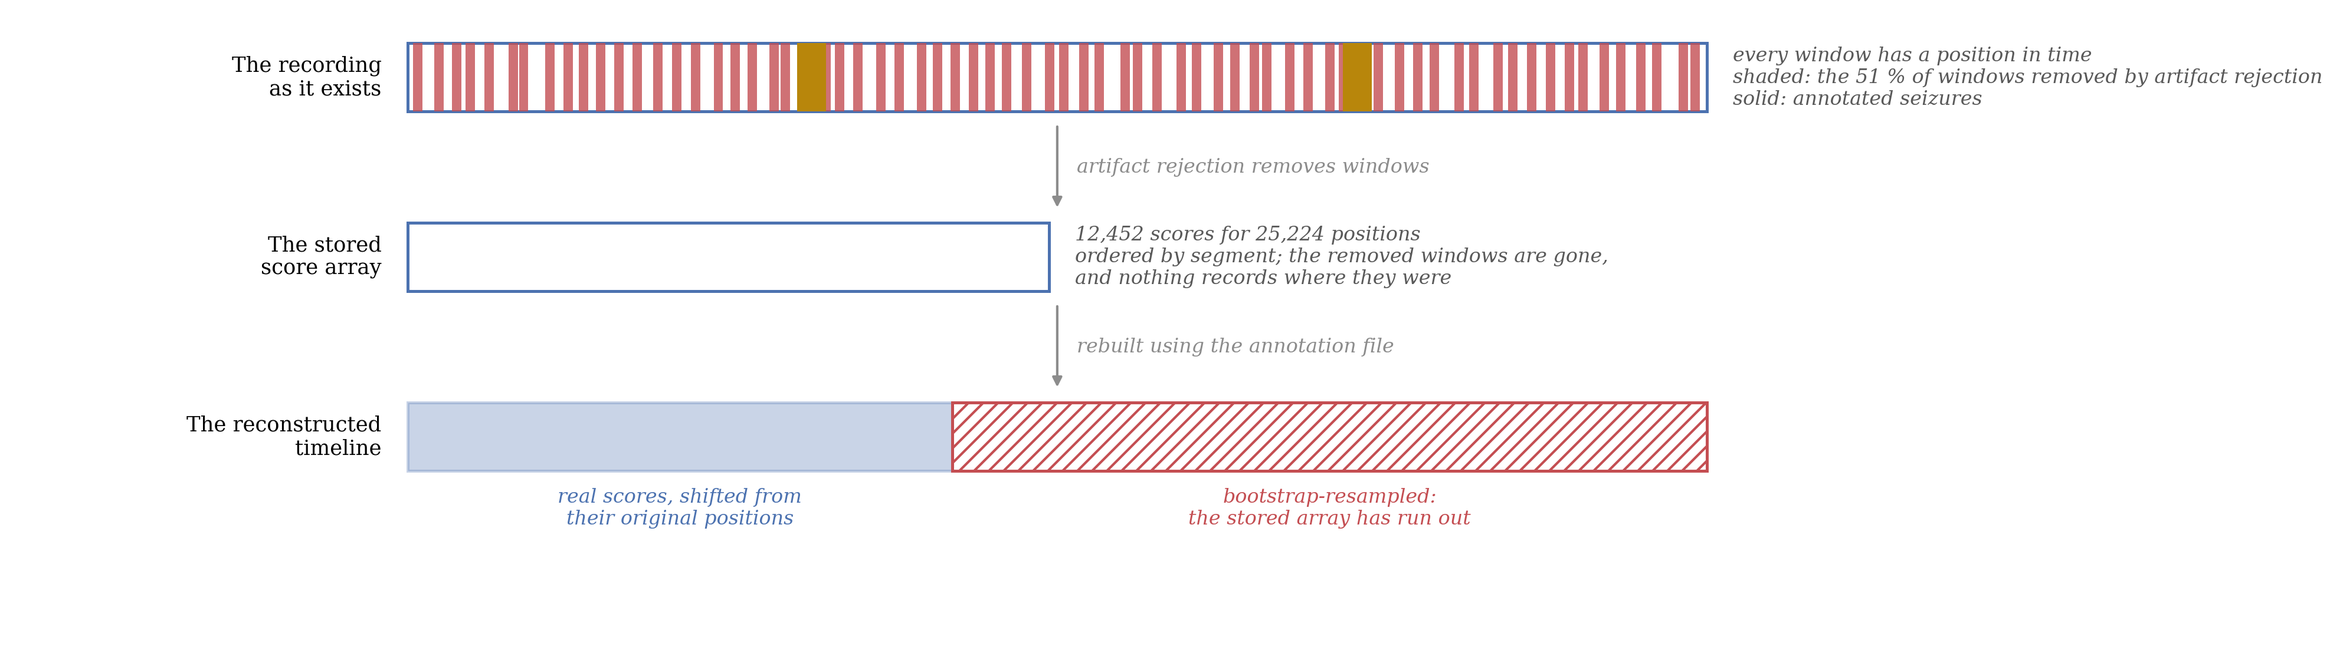
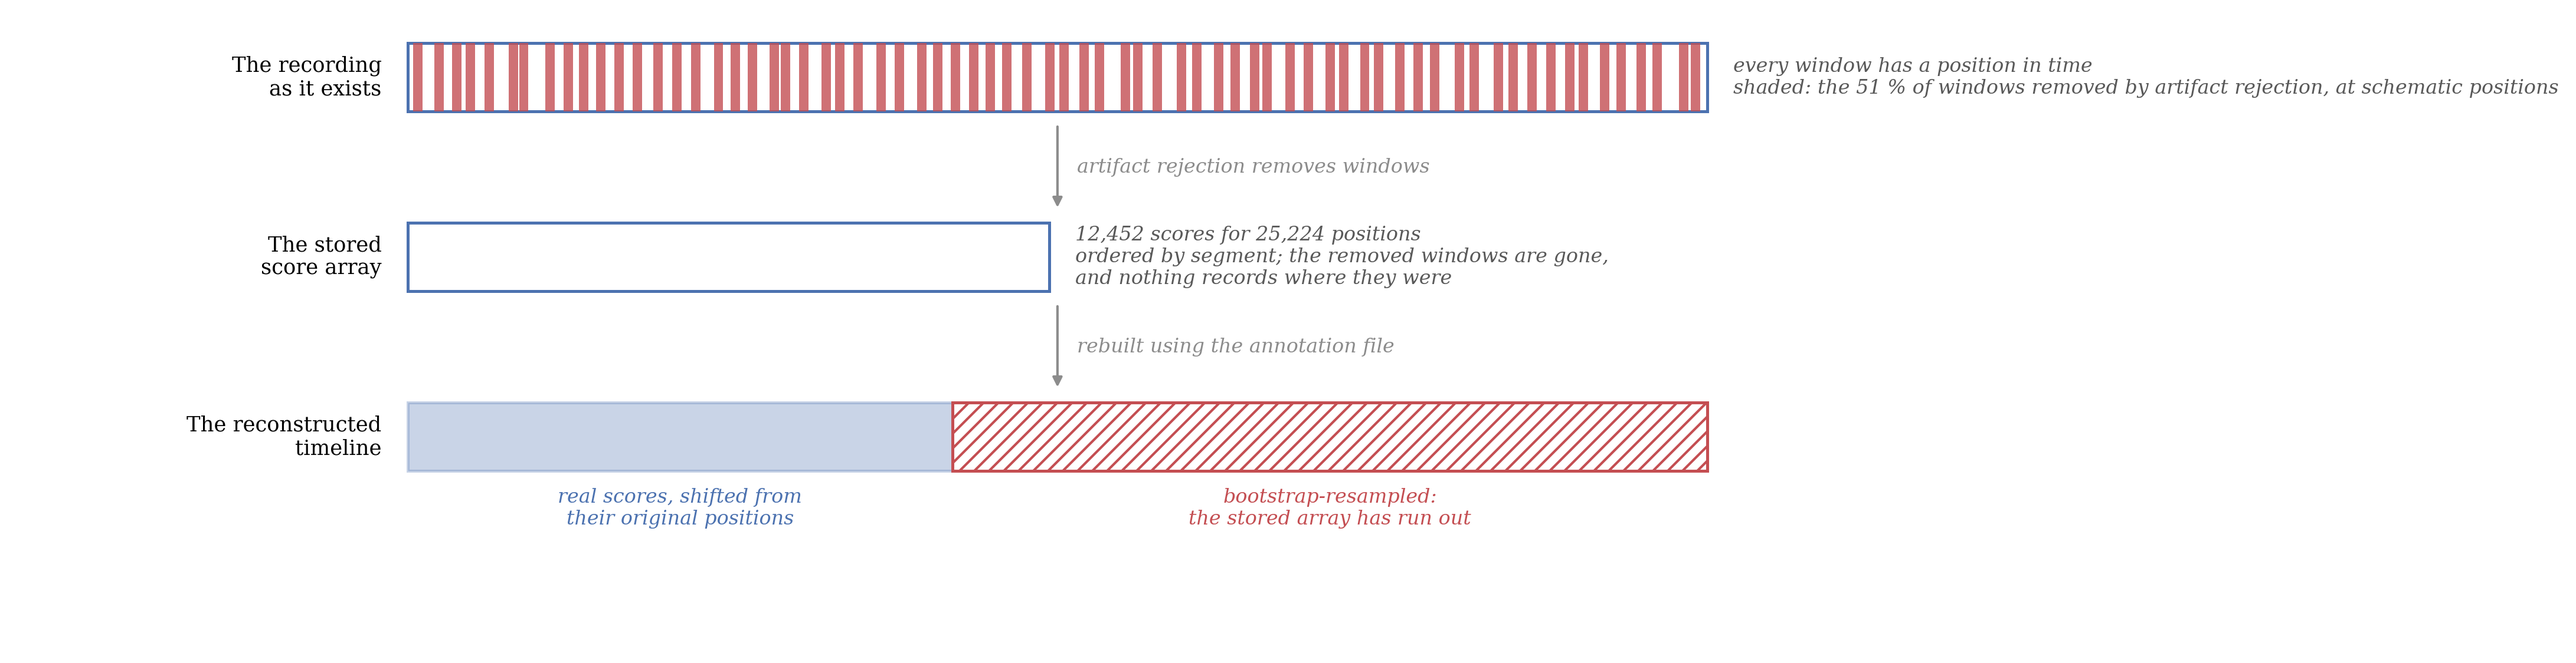
fig 2.12 and 2.13: tighter layout

diff --git a/src/figures/fig2_12_and_2_13_application.py b/src/figures/fig2_12_and_2_13_application.py
@@ -104,10 +104,14 @@ BANDS = [
 ]
 
 X0, X1 = 3.0, 66.0
+X1_WIDE = 95.0
+WIDE = {"Browser", "Application server"}
+XMID = (X0 + X1) / 2
 BOX_H = 13.0
 
 for name, colour, y, items in BANDS:
-    axa.add_patch(Rectangle((X0 - 1.6, y - 2.4), (X1 - X0) + 3.2, BOX_H + 6.0,
+    xr = X1_WIDE if name in WIDE else X1
+    axa.add_patch(Rectangle((X0 - 1.6, y - 2.4), (xr - X0) + 3.2, BOX_H + 6.0,
                             facecolor="none", edgecolor=colour, linewidth=1.0,
                             linestyle=(0, (3, 3)), zorder=1))
     axa.text(X0 - 0.6, y + BOX_H + 1.2, name, fontsize=9.5, fontweight="bold",
@@ -115,7 +119,7 @@ for name, colour, y, items in BANDS:
              bbox=dict(boxstyle="square,pad=0.12", facecolor="white",
                        edgecolor="none"))
     n = len(items)
-    w = ((X1 - X0) - 1.6 * (n - 1)) / n
+    w = ((xr - X0) - 1.6 * (n - 1)) / n
     for i, label in enumerate(items):
         x = X0 + i * (w + 1.6)
         axa.add_patch(Rectangle((x, y), w, BOX_H, facecolor="white",
@@ -124,28 +128,28 @@ for name, colour, y, items in BANDS:
                  fontsize=7.6, color="0.15", zorder=4)
 
 for y_from, y_to in ((80, 58 + BOX_H), (58, 32 + BOX_H), (32, 6 + BOX_H)):
-    axa.add_patch(FancyArrowPatch(((X0 + X1) / 2, y_from),
-                                  ((X0 + X1) / 2, y_to), arrowstyle="<|-|>",
+    axa.add_patch(FancyArrowPatch((XMID, y_from),
+                                  (XMID, y_to), arrowstyle="<|-|>",
                                   mutation_scale=8, color=CHANCE,
                                   linewidth=1.0, zorder=2))
 
 # the forbidden inputs
-FX, FW = 71.0, 26.0
-axa.add_patch(Rectangle((FX, 6), FW, 67, facecolor="white", edgecolor=ICTAL,
+FX, FW = 70.0, 25.0
+axa.add_patch(Rectangle((FX, 3.6), FW, 45.8, facecolor="white", edgecolor=ICTAL,
                         linewidth=1.4, zorder=3))
-axa.text(FX + FW / 2, 66, "Never read at runtime", ha="center", va="center",
+axa.text(FX + FW / 2, 43.5, "Never read at runtime", ha="center", va="center",
          fontsize=9.5, fontweight="bold", color=ICTAL, zorder=4)
 for i, txt in enumerate(["Seizure onset and\noffset annotations",
                          "Any timeline rebuilt\nfrom annotations",
                          "Pre-split background\nand seizure arrays"]):
-    axa.text(FX + FW / 2, 54 - i * 14, txt, ha="center", va="center",
+    axa.text(FX + FW / 2, 33.5 - i * 10.5, txt, ha="center", va="center",
              fontsize=8.2, color=ICTAL, zorder=4)
 
 for y in (32 + BOX_H / 2, 6 + BOX_H / 2):
     axa.add_patch(FancyArrowPatch((FX, y), (X1 + 1.6, y), arrowstyle="-[",
                                   mutation_scale=7, color=ICTAL,
                                   linewidth=1.3, zorder=4))
-axa.text((X1 + FX) / 2, 25, "blocked", ha="center", va="center", fontsize=8,
+axa.text((X1 + FX) / 2, 25.5, "blocked", ha="center", va="center", fontsize=8,
          style="italic", color=ICTAL, rotation=90, zorder=4)
 
 OUT_A = ROOT / "figures" / "fig2_12_application_architecture.png"
@@ -175,15 +179,12 @@ for i in range(N_CELL):
     x = i * cell + RNG.uniform(0.0, cell - band)
     axb.add_patch(Rectangle((x, y), band, BAR_H, facecolor=ICTAL,
                             edgecolor="none", alpha=0.80))
-for s in (0.30, 0.72):
-    axb.add_patch(Rectangle((s, y), 0.022, BAR_H, facecolor=HEADLINE,
-                            edgecolor="none"))
 axb.text(-0.02, y + BAR_H / 2, "The recording\nas it exists", ha="right",
          va="center", fontsize=8.5)
 axb.text(1.02, y + BAR_H / 2,
          f"every window has a position in time\n"
          f"shaded: the {DROPPED_FRAC * 100:.0f} % of windows removed by "
-         f"artifact rejection\nsolid: annotated seizures",
+         f"artifact rejection, at schematic positions",
          ha="left", va="center", fontsize=8, style="italic", color="0.35")
 
 # row 2 — the stored array
